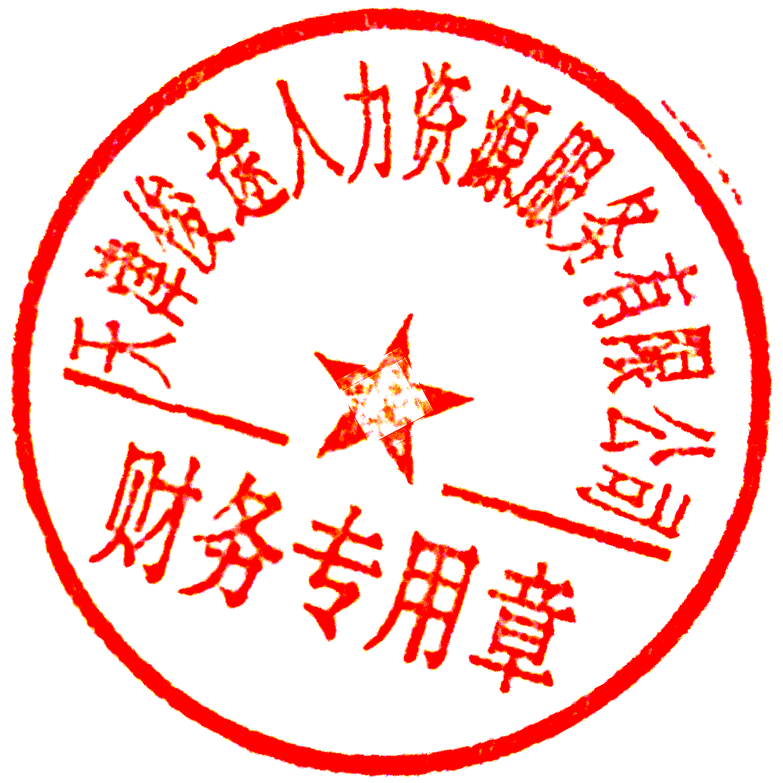
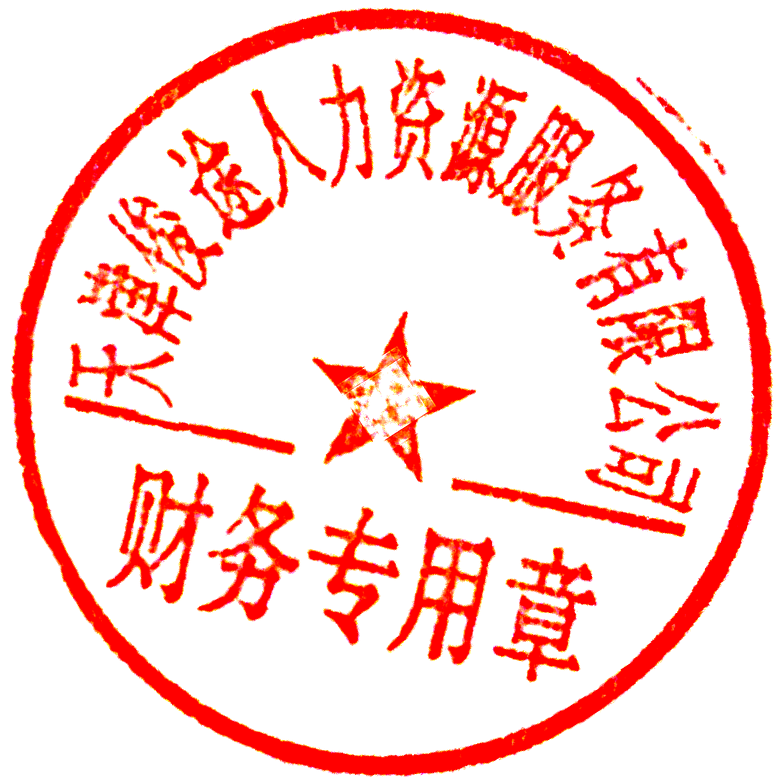
fix: 章再顺时针旋转5度扶正 + 修复表格列宽渲染问题 + 确保金额大写修复生效

Changed region(s): [[0.0, 0.0, 1.0, 1.0], [0.5824, 0.9195, 0.705, 0.9808]]

diff --git a/templates/default_receipt.html b/templates/default_receipt.html
@@ -53,7 +53,6 @@ h3 {
     width: 100%;
     border-collapse: collapse;
     border: 2px solid #000;
-    table-layout: fixed;
 }
 .mtbl tr {
     page-break-inside: avoid;
@@ -70,7 +69,6 @@ h3 {
     background-color: #f0f0f0;
     font-weight: bold;
     text-align: center;
-    width: 15%;
 }
 .sign-td {
     border: none !important;
@@ -111,11 +109,17 @@ h3 {
     </table>
 
     <table class="mtbl" cellpadding="0" cellspacing="0">
+        <colgroup>
+            <col style="width:15%;">
+            <col style="width:35%;">
+            <col style="width:15%;">
+            <col style="width:35%;">
+        </colgroup>
         <tr>
             <td class="lb">付款人</td>
-            <td style="width:35%;">{{ payer_name }}</td>
-            <td class="lb" style="width:15%;">收款人</td>
-            <td style="width:35%;">天津俊途人力资源服务有限公司</td>
+            <td>{{ payer_name }}</td>
+            <td class="lb">收款人</td>
+            <td>天津俊途人力资源服务有限公司</td>
         </tr>
         <tr>
             <td class="lb" colspan="2">收款内容</td>
@@ -133,11 +137,11 @@ h3 {
             <td colspan="3">{{ notes }}</td>
         </tr>
         <tr>
-            <td colspan="4" class="sign-td">
+            <td colspan="4" style="border:none; padding:8px 0 0 0;">
                 <table class="sign-table" cellpadding="0" cellspacing="0">
                     <tr>
                         <td style="width:50%;">开具人：{{ issuer }}</td>
-                        <td style="width:50%; text-align:right;" class="seal-area">收款单位（盖章）：{{ seal_img }}</td>
+                        <td style="width:50%; text-align:right;">收款单位（盖章）：{{ seal_img }}</td>
                     </tr>
                 </table>
             </td>
